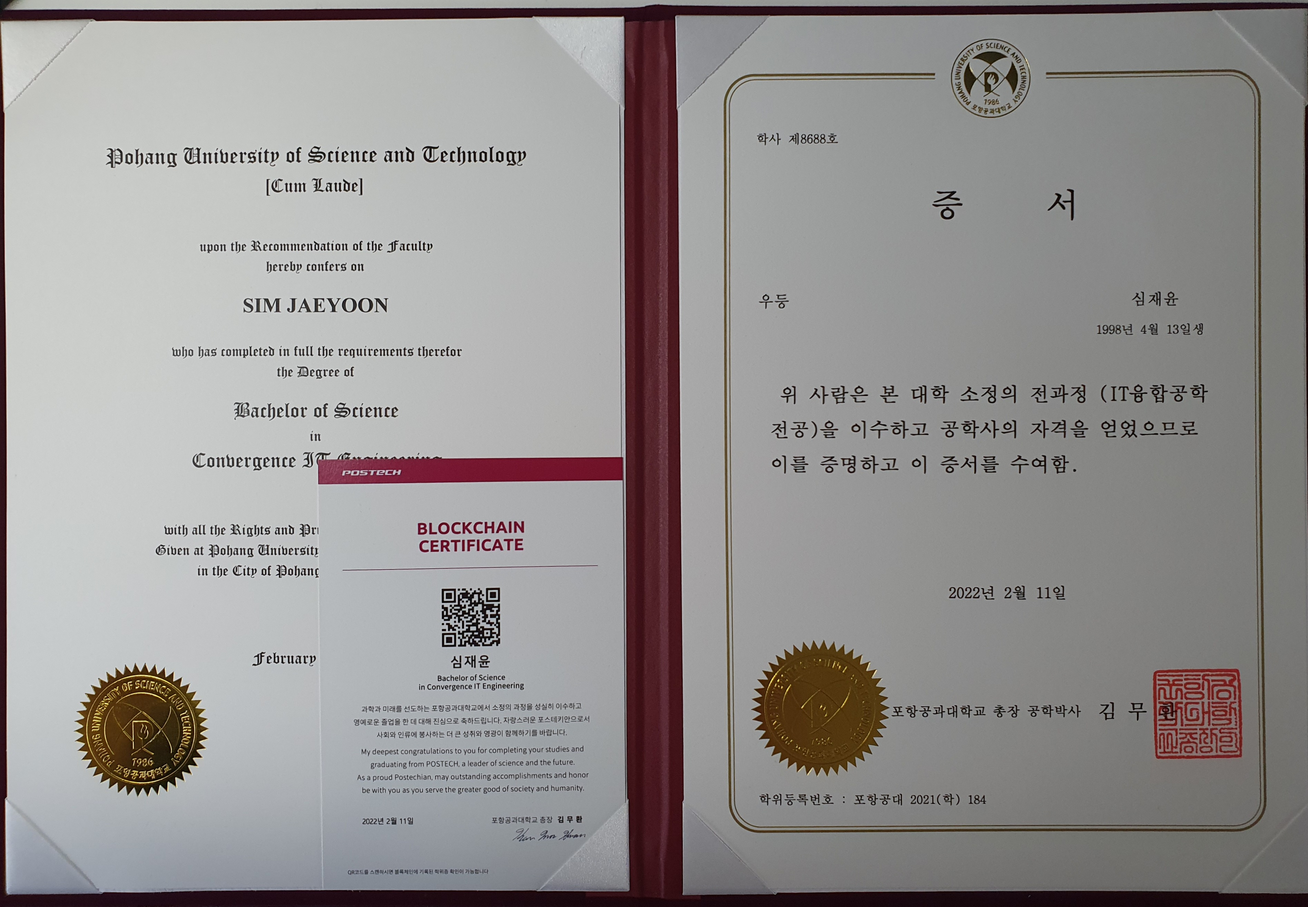
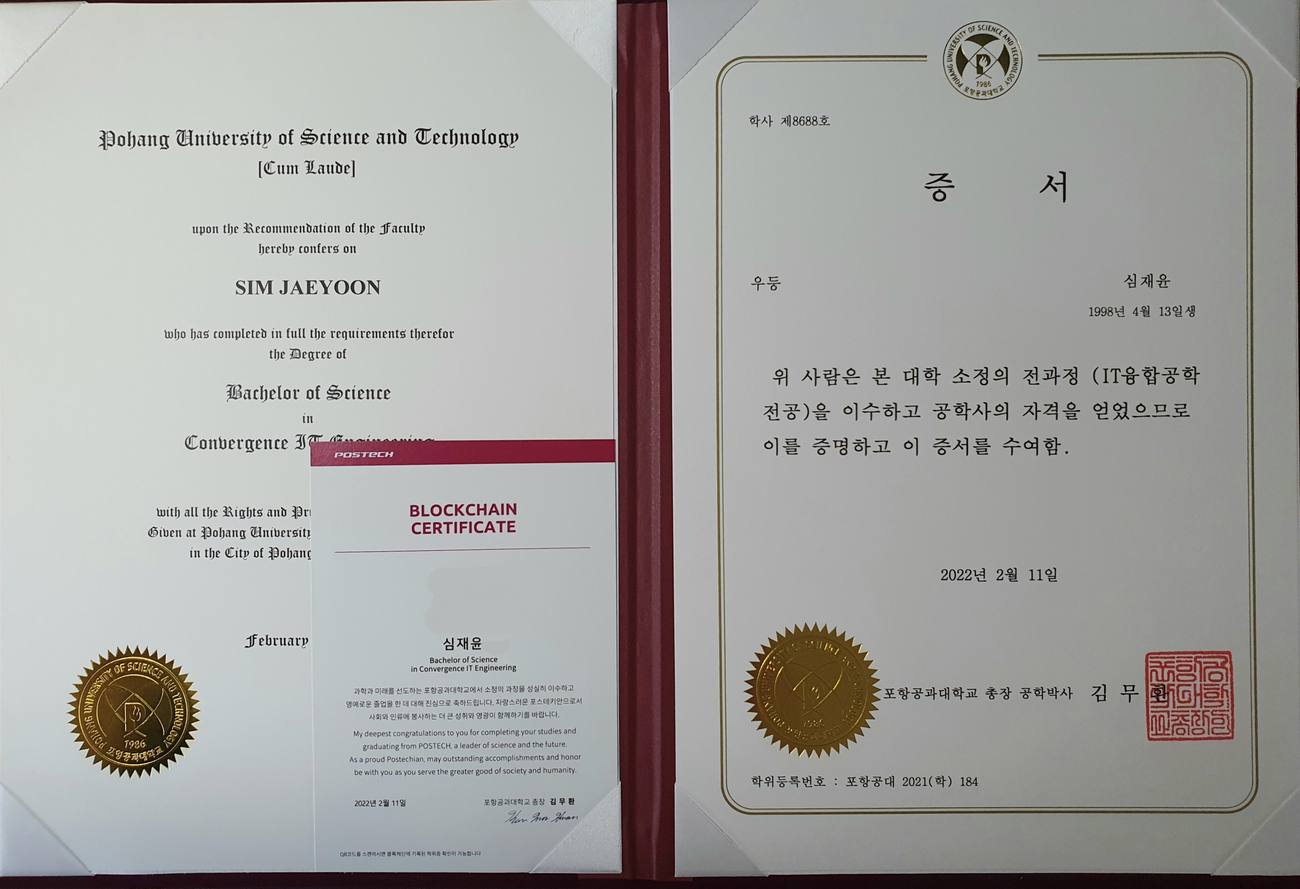
update

diff --git a/_posts/2022-02-11-college-graduation.md b/_posts/2022-02-11-college-graduation.md
@@ -5,4 +5,4 @@ title: "College Graduation"
 
 I graduated from college 😎
 
-<center> <img src="/experiences/images/graduation.jpg" width="30%" height="30%">  <img src="/experiences/images/graduation2.jpg" width="60%" height="60%"> </center>
+<center> <img src="/experiences/images/graduation.jpg" width="30%" height="30%">  <img src="/experiences/images/graduation2.jpg" width="65%" height="65%"> </center>
